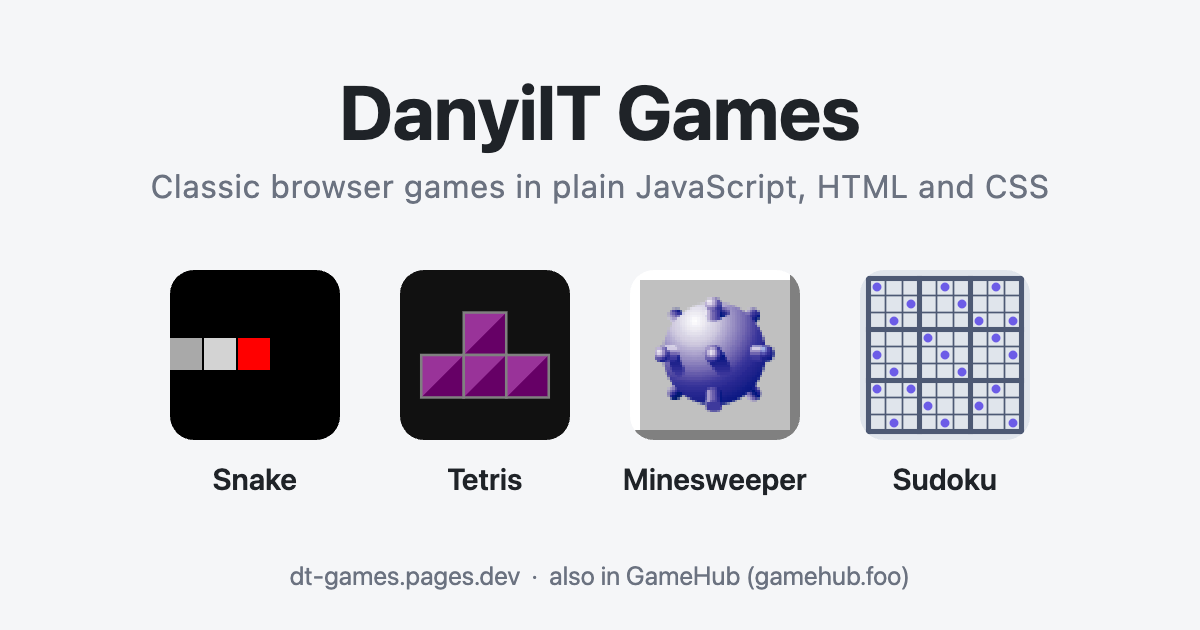
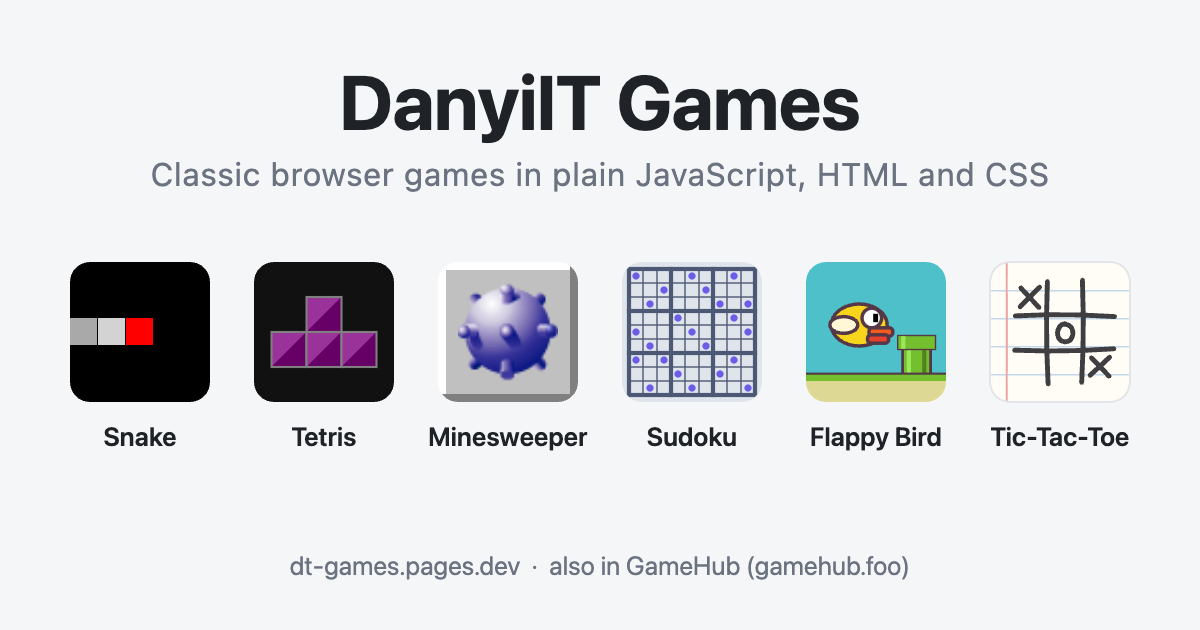
Overview: Flappy Bird and Tic-Tac-Toe

diff --git a/index.html b/index.html
@@ -4,18 +4,18 @@
     <meta charset="UTF-8">
     <meta name="viewport" content="width=device-width, initial-scale=1.0">
     <title>DanyilT Games</title>
-    <meta name="description" content="Classic browser games made with JavaScript, HTML and CSS: Snake, Tetris, Minesweeper and Sudoku.">
+    <meta name="description" content="Classic browser games made with JavaScript, HTML and CSS: Snake, Tetris, Minesweeper, Sudoku, Flappy Bird and Tic-Tac-Toe.">
     <meta name="theme-color" content="#f5f6f8" media="(prefers-color-scheme: light)">
     <meta name="theme-color" content="#121316" media="(prefers-color-scheme: dark)">
     <meta property="og:type" content="website">
     <meta property="og:site_name" content="DanyilT Games">
     <meta property="og:title" content="DanyilT Games">
-    <meta property="og:description" content="Classic browser games made with JavaScript, HTML and CSS: Snake, Tetris, Minesweeper and Sudoku.">
+    <meta property="og:description" content="Classic browser games made with JavaScript, HTML and CSS: Snake, Tetris, Minesweeper, Sudoku, Flappy Bird and Tic-Tac-Toe.">
     <meta property="og:url" content="https://dt-games.pages.dev/">
     <meta property="og:image" content="https://dt-games.pages.dev/img/preview.png">
     <meta property="og:image:width" content="1200">
     <meta property="og:image:height" content="630">
-    <meta property="og:image:alt" content="DanyilT Games: the icons of Snake, Tetris, Minesweeper and Sudoku">
+    <meta property="og:image:alt" content="DanyilT Games: the icons of Snake, Tetris, Minesweeper, Sudoku, Flappy Bird and Tic-Tac-Toe">
     <meta name="twitter:card" content="summary_large_image">
     <link rel="icon" href="img/icon-32.png" sizes="32x32" type="image/png">
     <link rel="icon" href="img/icon.svg" type="image/svg+xml">
@@ -146,6 +146,16 @@
             <a class="play" href="https://sudoku.dt-games.pages.dev/"><img src="https://sudoku.dt-games.pages.dev/img/icon.svg" alt="" width="48" height="48">Sudoku</a>
             <p class="about">Fill the grid so that no row, column or box has a digit twice.</p>
             <p class="links"><a href="https://gamehub.foo/g/sudoku">in GameHub</a> · <a href="https://github.com/DanyilT/dt-games/tree/sudoku">source code</a></p>
+        </li>
+        <li class="game">
+            <a class="play" href="https://flappy-bird.dt-games.pages.dev/"><img src="https://flappy-bird.dt-games.pages.dev/img/icon.svg" alt="" width="48" height="48">Flappy Bird</a>
+            <p class="about">Flap through the gaps between the pipes, as far as you can.</p>
+            <p class="links"><a href="https://gamehub.foo/g/flappy-bird">in GameHub</a> · <a href="https://github.com/DanyilT/dt-games/tree/flappy-bird">source code</a></p>
+        </li>
+        <li class="game">
+            <a class="play" href="https://tic-tac-toe.dt-games.pages.dev/"><img src="https://tic-tac-toe.dt-games.pages.dev/img/icon.svg" alt="" width="48" height="48">Tic-Tac-Toe</a>
+            <p class="about">Three in a row against a minimax bot, in pencil on notebook paper.</p>
+            <p class="links"><a href="https://gamehub.foo/g/tic-tac-toe">in GameHub</a> · <a href="https://github.com/DanyilT/dt-games/tree/tic-tac-toe">source code</a></p>
         </li>
     </ul>
 

diff --git a/README.md b/README.md
@@ -1,6 +1,6 @@
 # dt-games
 
-Classic browser games in plain HTML, CSS and JavaScript: **Snake**, **Tetris**, **Minesweeper** and **Sudoku**. No frameworks, no build step, nothing to install. They play on a computer (keyboard and mouse) or on a phone (touch), and they're all in my **[GameHub](https://gamehub.foo)**. <u>dt</u> stands for <u>DanyilT</u> (me).
+Classic browser games in plain HTML, CSS and JavaScript: **Snake**, **Tetris**, **Minesweeper**, **Sudoku**, **Flappy Bird** and **Tic-Tac-Toe**. No frameworks, no build step, nothing to install. They play on a computer (keyboard and mouse) or on a phone (touch), and they're all in my **[GameHub](https://gamehub.foo)**. <u>dt</u> stands for <u>DanyilT</u> (me).
 
 Every game lives on its own branch, at the root of that branch, with no history shared with the others. This branch, `main`, only has this overview: this README, and the overview page, `index.html`, with its icons and link-preview picture in `img/`.
 
@@ -12,6 +12,8 @@ Every game lives on its own branch, at the root of that branch, with no history 
 | Tetris      | [`tetris`](https://github.com/DanyilT/dt-games/tree/tetris)           | [GameHub](https://gamehub.foo/g/tetris) · [direct](https://tetris.dt-games.pages.dev)           | `git clone --branch tetris --single-branch https://github.com/DanyilT/dt-games.git tetris`           |
 | Minesweeper | [`minesweeper`](https://github.com/DanyilT/dt-games/tree/minesweeper) | [GameHub](https://gamehub.foo/g/minesweeper) · [direct](https://minesweeper.dt-games.pages.dev) | `git clone --branch minesweeper --single-branch https://github.com/DanyilT/dt-games.git minesweeper` |
 | Sudoku      | [`sudoku`](https://github.com/DanyilT/dt-games/tree/sudoku)           | [GameHub](https://gamehub.foo/g/sudoku) · [direct](https://sudoku.dt-games.pages.dev)           | `git clone --branch sudoku --single-branch https://github.com/DanyilT/dt-games.git sudoku`           |
+| Flappy Bird | [`flappy-bird`](https://github.com/DanyilT/dt-games/tree/flappy-bird) | [GameHub](https://gamehub.foo/g/flappy-bird) · [direct](https://flappy-bird.dt-games.pages.dev) | `git clone --branch flappy-bird --single-branch https://github.com/DanyilT/dt-games.git flappy-bird` |
+| Tic-Tac-Toe | [`tic-tac-toe`](https://github.com/DanyilT/dt-games/tree/tic-tac-toe) | [GameHub](https://gamehub.foo/g/tic-tac-toe) · [direct](https://tic-tac-toe.dt-games.pages.dev) | `git clone --branch tic-tac-toe --single-branch https://github.com/DanyilT/dt-games.git tic-tac-toe` |
 
 Each branch's README has the game's controls and features.
 
@@ -55,13 +57,13 @@ And follows the same rules:
 
 - **The same `<head>` basics:** charset, viewport, title, description, `theme-color` (the page's background, for the browser's bar on phones), the link-preview tags (`og:` and `twitter:card`, with `img/desktop-screenshot.png` as the picture), the icons (`img/icon.svg`, with `img/icon-32.png` for browsers without SVG icons, and `img/apple-touch-icon.png`; Minesweeper keeps `img/mine.png`), and the two stylesheets, `css/page.css` first.
 - **Relative paths only**, so a game runs from any address: its branch's root, a subfolder, or `localhost`. The one exception is the link-preview tags (`og:url`, `og:image`), which need the game's full address; they're only read by the sites that show previews.
-- **Plain scripts:** `<script>` tags, no modules, no build step, no dependencies. (Sudoku's font and Tetris's GAME OVER font come from Google Fonts; without them, the page falls back to a system font.)
+- **Plain scripts:** `<script>` tags, no modules, no build step, no dependencies. (Sudoku's font, Tetris's GAME OVER font, Flappy Bird's pixel font and Tic-Tac-Toe's handwriting come from Google Fonts; without them, the page falls back to a system font.)
 - **One code style:** 4 spaces, LF line endings, UTF-8, a newline at the end of every file (`.editorconfig`). In JavaScript: semicolons, single quotes, `const` or `let` for every variable, and a comment above each function.
 - **Saved data:** each game saves one object, through `window.GameHub` (`js/gamehub.js`): `snakeGameData` = `{ "highScore": 12, "game": null }`, with the game in progress (if any) in `game`, so it carries on next time. It's kept in the browser under `<game>GameData`, and in the player's GameHub account when they play in GameHub signed in. If the browser blocks storage (some browsers do inside an iframe), the game still plays, it just doesn't remember anything.
 - **GameHub:** `js/gamehub.js` is the same file in every game, loaded first in `<head>` with the game's id (`<script src="js/gamehub.js" data-game="snake">`). Inside a GameHub frame, and only there, it loads GameHub's `/hub-bridge.js`, so a signed-in player's saves also go to their account; without it (played on its own, or GameHub can't be reached within 3 seconds), the game plays and saves in the browser as before. It also answers `{ type: 'gamehub:center' }`, GameHub's request to put the play area (the element marked `data-play-area`) in the middle of the frame.
   - **The frame view:** inside GameHub's frame, `js/gamehub.js` sets `data-gamehub-view="frame"` on `<html>` (in `<head>`, before anything is drawn), then follows GameHub's `{ type: 'gamehub:view', view: 'frame' | 'full' }` (`full` in full screen). Each game's `css/page.css` hides what the frame doesn't need with `[data-gamehub-view="frame"]` rules, and fits the game to whatever frame GameHub gives it (in the frame, `vw` and `vh` are the frame's), on the game's own background; the frame's height (in GameHub's games table) decides how big it gets. Played on its own, the page has no attribute and shows as it is.
   - **Full screen, pausing and loading:** GameHub has its own full-screen buttons. A game's own controls can call `GameHub.fullScreen()` (Minesweeper's window buttons do), which puts the page itself in full screen; full screen GameHub started only GameHub can end, so then the game sends it `{ type: 'gamehub:fullscreen', full: false }`. GameHub's `{ type: 'gamehub:pause' }` reaches the game as a `gamehub:pause` event (Snake and Tetris pause, and also when their frame loses the keyboard), and `GameHub.playable()` sends `{ type: 'gamehub:playable' }` once the game is ready to play.
-  - **The rules:** `js/rules.js` is a plain script declaring one name, `GameRules`, with no page, timers, storage, `Math.random` or `Date`. The game plays through it, and GameHub's server plays runs again with its `simulate(run)` (GameHub adds `export const { simulate } = GameRules;` to make it a module). When a game's rules, timing or random numbers change, GameHub has to take the file again.
+  - **The rules:** `js/rules.js` is a plain script declaring one name, `GameRules`, with no page, timers, storage, `Math.random` or `Date`. The game plays through it, and GameHub's server plays runs again with its `simulate(run)` (GameHub adds `export const { simulate } = GameRules;` to make it a module). A run holds only the player's inputs: everything else (the food, the pieces, the mines, the pipes, the puzzle, Tic-Tac-Toe's bot) is worked out again from the run's seed by the same rules, so it can't be changed in the page. When a game's rules, timing or random numbers change, GameHub has to take the file again.
 
 ## 🔬 Testing
 
@@ -69,7 +71,7 @@ And follows the same rules:
 - **The shared files:** `js/gamehub.js`, `sw.js`, `test/check.js`, `LICENSE` and `.editorconfig` must be the same in every game (the last two in `main` too). From the folder with all the branches (below), this prints how many versions of each there are, which should be 1:
 
   ```bash
-  for f in js/gamehub.js sw.js test/check.js LICENSE .editorconfig; do echo "$f: $(for b in snake tetris minesweeper sudoku; do git -C main rev-parse --short "$b:$f"; done | sort -u | wc -l | tr -d ' ') version(s)"; done
+  for f in js/gamehub.js sw.js test/check.js LICENSE .editorconfig; do echo "$f: $(for b in snake tetris minesweeper sudoku flappy-bird tic-tac-toe; do git -C main rev-parse --short "$b:$f"; done | sort -u | wc -l | tr -d ' ') version(s)"; done
   ```
 
   It compares the committed files, so commit first (or compare the working copies with `md5`).
@@ -84,7 +86,7 @@ cd dt-games
 echo "gitdir: ./.bare" > .git
 git config remote.origin.fetch "+refs/heads/*:refs/remotes/origin/*"
 git fetch origin
-for branch in main snake tetris minesweeper sudoku; do git worktree add "$branch" "$branch"; done
+for branch in main snake tetris minesweeper sudoku flappy-bird tic-tac-toe; do git worktree add "$branch" "$branch"; done
 ```
 
 ## 📄 License
